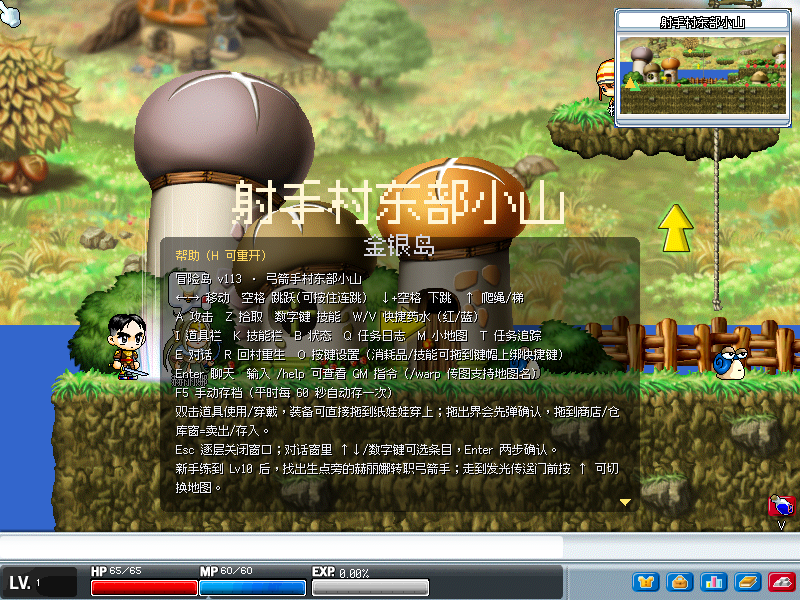
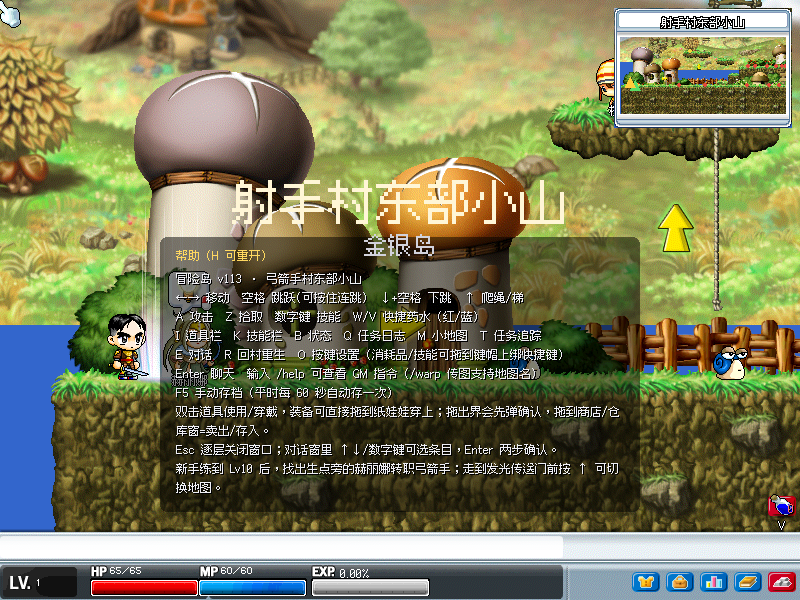
fix: UI 缩放统一改最近邻 scale——消除像素素材平滑糊化
将 8 个文件中 19 处 pygame.transform.smoothscale 统一为最近邻 scale，
与代码库既有的像素缩放约定（minimap 边框/skill/chat/fit_icon）一致：
聊天气泡九宫格、ContextMenu 三段、UtilDlgEx 窗体、商店选中条、
掉落物吸附放大、任务 NPC 立绘、小地图底图、战斗日志图标。
重拍截图；全套 981 passed, 1 skipped。

Changed region(s): [[0.7812, 0.06, 1.0, 0.21]]

diff --git a/src/game/render/ui.py b/src/game/render/ui.py
@@ -464,15 +464,15 @@ class UI:
         surf.blit(parts["sw"], (0, h - parts["sw"].get_height()))
         surf.blit(parts["se"], (w - parts["se"].get_width(),
                                 h - parts["se"].get_height()))
-        surf.blit(pygame.transform.smoothscale(parts["n"], (inner_w, parts["n"].get_height())),
+        surf.blit(pygame.transform.scale(parts["n"], (inner_w, parts["n"].get_height())),
                   (parts["nw"].get_width(), 0))
-        surf.blit(pygame.transform.smoothscale(parts["s"], (inner_w, parts["s"].get_height())),
+        surf.blit(pygame.transform.scale(parts["s"], (inner_w, parts["s"].get_height())),
                   (parts["sw"].get_width(), h - parts["s"].get_height()))
-        surf.blit(pygame.transform.smoothscale(parts["w"], (parts["w"].get_width(), inner_h)),
+        surf.blit(pygame.transform.scale(parts["w"], (parts["w"].get_width(), inner_h)),
                   (0, parts["nw"].get_height()))
-        surf.blit(pygame.transform.smoothscale(parts["e"], (parts["e"].get_width(), inner_h)),
+        surf.blit(pygame.transform.scale(parts["e"], (parts["e"].get_width(), inner_h)),
                   (w - parts["e"].get_width(), parts["ne"].get_height()))
-        surf.blit(pygame.transform.smoothscale(parts["c"], (inner_w, inner_h)),
+        surf.blit(pygame.transform.scale(parts["c"], (inner_w, inner_h)),
                   (parts["nw"].get_width(), parts["nw"].get_height()))
         # 原版运行时把白色九宫格乘上 ChatBalloon/npc/clr = 0x80000000（半透黑）
         surf.fill((0, 0, 0, 128), special_flags=pygame.BLEND_RGBA_MULT)

diff --git a/src/game/render/windows/core/widgets.py b/src/game/render/windows/core/widgets.py
@@ -93,11 +93,11 @@ def _stretch_menu_top(t: pygame.Surface, W: int) -> pygame.Surface:
         return t
     lw, rw = 18, 8
     if W < lw + rw + 1:
-        return pygame.transform.smoothscale(t, (W, th))
+        return pygame.transform.scale(t, (W, th))
     out = pygame.Surface((W, th), pygame.SRCALPHA)
     out.blit(t.subsurface(pygame.Rect(0, 0, lw, th)), (0, 0))
     mid = t.subsurface(pygame.Rect(lw, 0, tw - lw - rw, th))
-    out.blit(pygame.transform.smoothscale(mid, (W - lw - rw, th)), (lw, 0))
+    out.blit(pygame.transform.scale(mid, (W - lw - rw, th)), (lw, 0))
     out.blit(t.subsurface(pygame.Rect(tw - rw, 0, rw, th)), (W - rw, 0))
     return out
 
@@ -112,12 +112,12 @@ def draw_menu_bg(surface, svc: WindowServices, rect: pygame.Rect) -> bool:
     W, H = rect.size
     th, sh = t.get_height(), s.get_height()
     top = _stretch_menu_top(t, W)
-    bot = s if W == s.get_width() else pygame.transform.smoothscale(s, (W, sh))
+    bot = s if W == s.get_width() else pygame.transform.scale(s, (W, sh))
     surface.blit(top, rect.topleft)
     surface.blit(bot, (rect.x, rect.bottom - sh))
     mid_h = max(0, H - th - sh)
     if mid_h > 0:
-        surface.blit(pygame.transform.smoothscale(c, (W, mid_h)),
+        surface.blit(pygame.transform.scale(c, (W, mid_h)),
                      (rect.x, rect.y + th))
     return True
 

diff --git a/src/game/render/conv.py b/src/game/render/conv.py
@@ -127,9 +127,9 @@ def draw_dlg_frame(surface, assets, x: int, y: int, w: int, content_h: int) -> N
     if t is None or c is None or s is None:
         return
     if w != t.get_width():
-        t = pygame.transform.smoothscale(t, (w, t.get_height()))
-        c = pygame.transform.smoothscale(c, (w, c.get_height()))
-        s = pygame.transform.smoothscale(s, (w, s.get_height()))
+        t = pygame.transform.scale(t, (w, t.get_height()))
+        c = pygame.transform.scale(c, (w, c.get_height()))
+        s = pygame.transform.scale(s, (w, s.get_height()))
     surface.blit(t, (x, y))
     ny = y + t.get_height()
     remaining = max(0, content_h)
@@ -311,7 +311,7 @@ class ConvPanel:
             return
         scale = min(1.0, box_w / img.get_width(), box_h / img.get_height())
         if scale < 1.0:
-            img = pygame.transform.smoothscale(
+            img = pygame.transform.scale(
                 img, (max(1, int(img.get_width() * scale)),
                       max(1, int(img.get_height() * scale))))
         surface.blit(img, (left + (box_w - img.get_width()) // 2,

diff --git a/src/game/render/windows/shop.py b/src/game/render/windows/shop.py
@@ -808,7 +808,7 @@ class ShopWindow(Window):
         if selected:
             sel = self._wz("select")
             if sel is not None:
-                fit = pygame.transform.smoothscale(sel, (rect.w, rect.h + 4))
+                fit = pygame.transform.scale(sel, (rect.w, rect.h + 4))
                 surface.blit(fit, (rect.x, rect.y - 3))
         icon = self._icon(item_id)
         name_c = (60, 52, 44) if selected else (80, 72, 62)
@@ -832,7 +832,7 @@ class ShopWindow(Window):
         if selected:
             sel = self._wz("select")
             if sel is not None:
-                fit = pygame.transform.smoothscale(sel, (rect.w, rect.h + 4))
+                fit = pygame.transform.scale(sel, (rect.w, rect.h + 4))
                 surface.blit(fit, (rect.x, rect.y - 3))
         _src, item = entry
         icon = self._icon(item.id)

diff --git a/src/game/render/combat_log.py b/src/game/render/combat_log.py
@@ -63,7 +63,7 @@ class CombatLogView:
         scale = ICON_BOX / max(surf.get_size())
         w = max(1, int(surf.get_width() * scale))
         h = max(1, int(surf.get_height() * scale))
-        return pygame.transform.smoothscale(surf, (w, h))
+        return pygame.transform.scale(surf, (w, h))
 
     # ── 文本 ─────────────────────────────────────────────────────────
     def entry_text(self, entry: CombatLogEntry) -> str:

diff --git a/src/game/systems/combat.py b/src/game/systems/combat.py
@@ -240,7 +240,7 @@ class DropItem:
                 t = min(self._attract_elapsed / settings.PICKUP_ATTRACT_TIME, 1.0)
                 scale = 1.0 + 0.25 * t
                 sw, sh = int(w * scale), int(h * scale)
-                scaled = pygame.transform.smoothscale(img, (sw, sh))
+                scaled = pygame.transform.scale(img, (sw, sh))
                 surface.blit(scaled, (int(sx - sw / 2), int(sy - sh / 2)))
             else:
                 surface.blit(img, (int(sx - w / 2), int(sy - h / 2)))

diff --git a/src/game/render/windows/questlog.py b/src/game/render/windows/questlog.py
@@ -427,7 +427,7 @@ class QuestLogWindow(Window):
         box_w, box_h = 100, 84
         scale = min(1.0, box_w / img.get_width(), box_h / img.get_height())
         if scale < 1.0:
-            img = pygame.transform.smoothscale(
+            img = pygame.transform.scale(
                 img, (max(1, int(img.get_width() * scale)),
                       max(1, int(img.get_height() * scale))))
         bx = dx + 190 + (DET_W - 190 - 8 - box_w) // 2

diff --git a/src/game/render/minimap.py b/src/game/render/minimap.py
@@ -149,7 +149,7 @@ class MiniMap:
         pygame.draw.rect(surface, (8, 10, 16, settings.MINIMAP_BG_ALPHA), panel)
         src = self.src_rect(player_x, player_y)
         view = self.base_layer.subsurface(src)
-        scaled = pygame.transform.smoothscale(
+        scaled = pygame.transform.scale(
             view, (settings.MINIMAP_W, settings.MINIMAP_H))
         surface.blit(scaled, panel.topleft)
 
